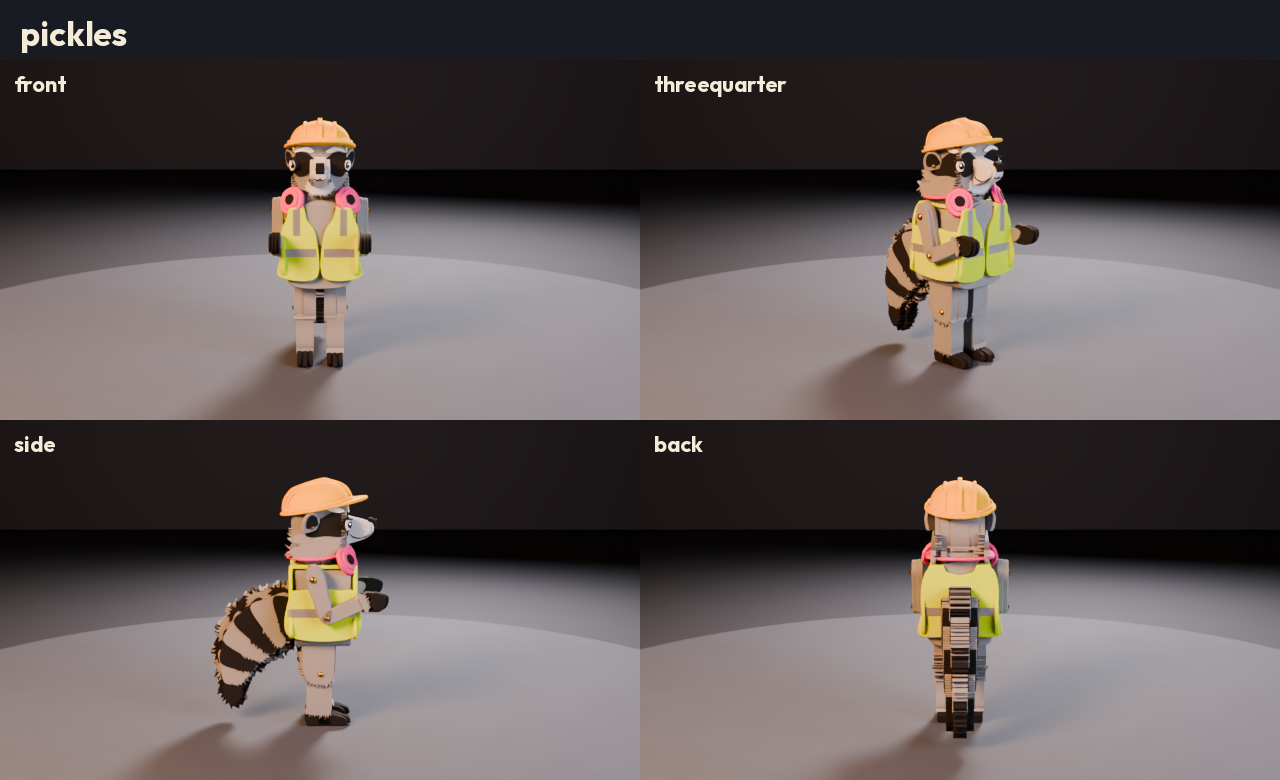
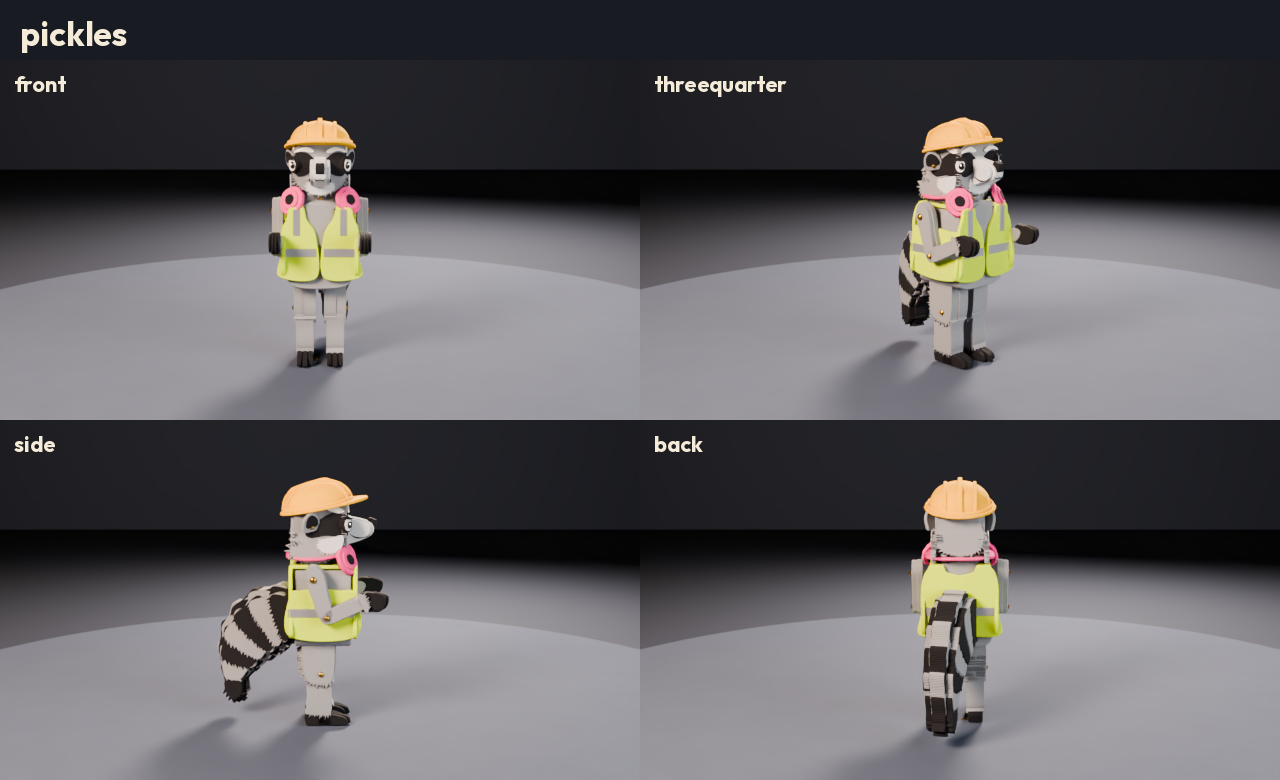
Pickles cut-out first pass and roll cage (approved), Pickles revision pending
Claude-Session: https://claude.ai/code/session_01BntmWCku4jb1pF4QRZCMzN

diff --git a/scripts/builders/bolt.py b/scripts/builders/bolt.py
@@ -1117,9 +1117,9 @@ def pose_test(root):
         b.rotation_mode = "XYZ"
     for i in range(1, 6):
         pb[f"tail.{i:02d}"].rotation_euler = (math.radians(6), 0, math.radians(-9))
-    pb["neck.01"].rotation_euler = (math.radians(-8), 0, math.radians(8))
-    pb["neck.02"].rotation_euler = (math.radians(-6), 0, math.radians(6))
-    pb["head"].rotation_euler = (0, math.radians(-10), math.radians(8))
+    pb["neck.01"].rotation_euler = (math.radians(-8), 0, math.radians(4))
+    pb["neck.02"].rotation_euler = (math.radians(-6), 0, 0)
+    pb["head"].rotation_euler = (0, math.radians(-12), math.radians(6))
     pb["jaw"].rotation_euler = (math.radians(-12), 0, 0)
     pb["tongue.02"].rotation_euler = (math.radians(-15), 0, 0)
     def world_rot(bone, axis, deg):
@@ -1129,7 +1129,7 @@ def pose_test(root):
         pb[bone].rotation_mode = "QUATERNION"
         pb[bone].rotation_quaternion = q.to_quaternion()
     # ears flop back (lagging behind the head turn); ear.02 swings a little further
-    world_rot("ear.01.L", (1, 0, 0), -14)
+    world_rot("ear.01.L", (0, 1, 0), 10)   # upper-side ear hangs in against the head tilt
     world_rot("ear.02.L", (1, 0, 0), -12)
     world_rot("ear.01.R", (1, 0, 0), -8)
     world_rot("ear.02.R", (1, 0, 0), -14)
